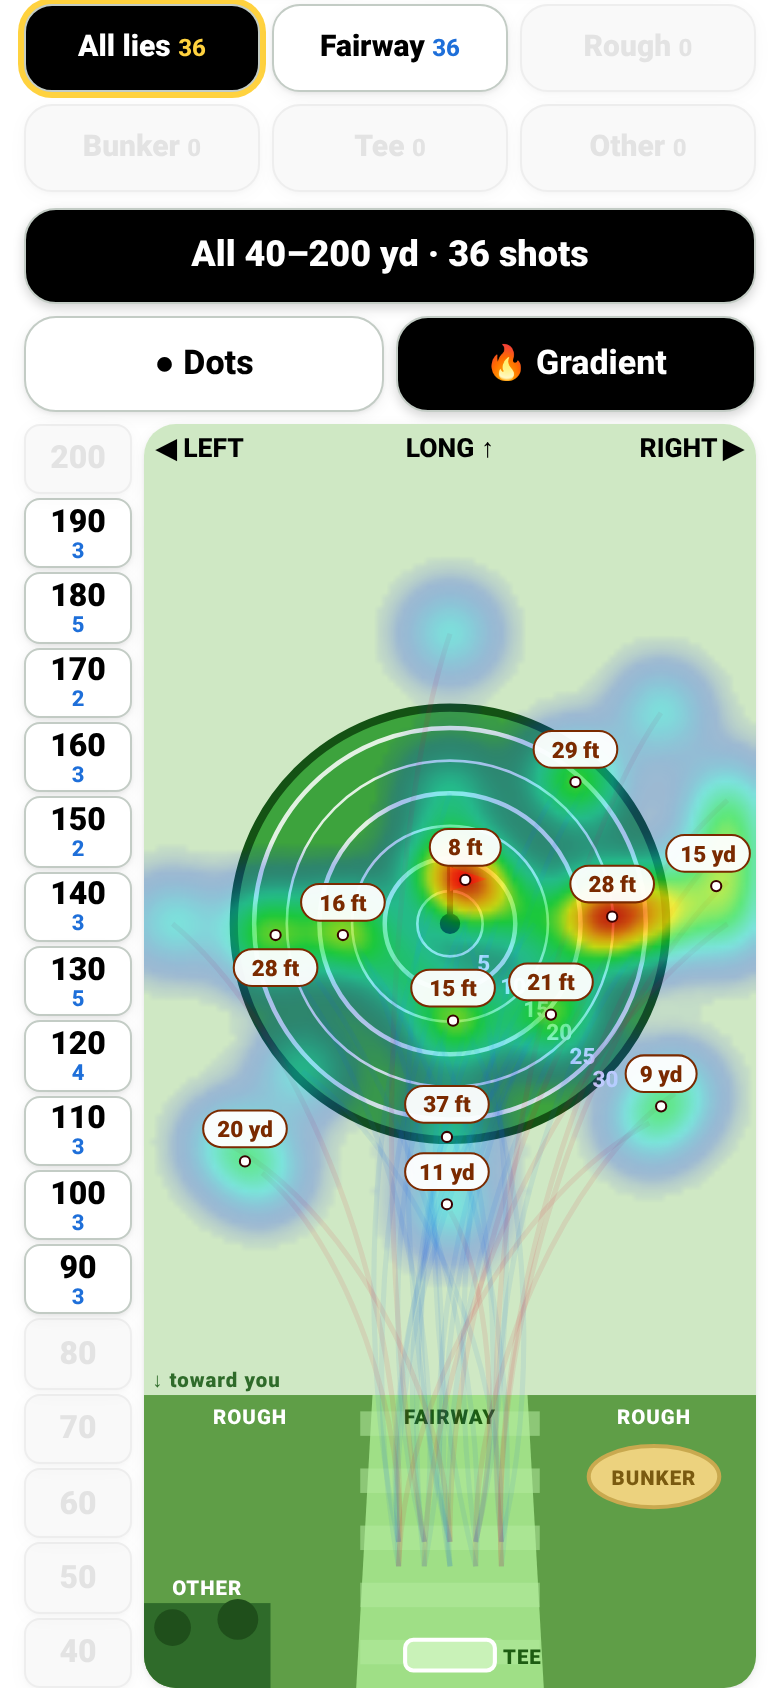
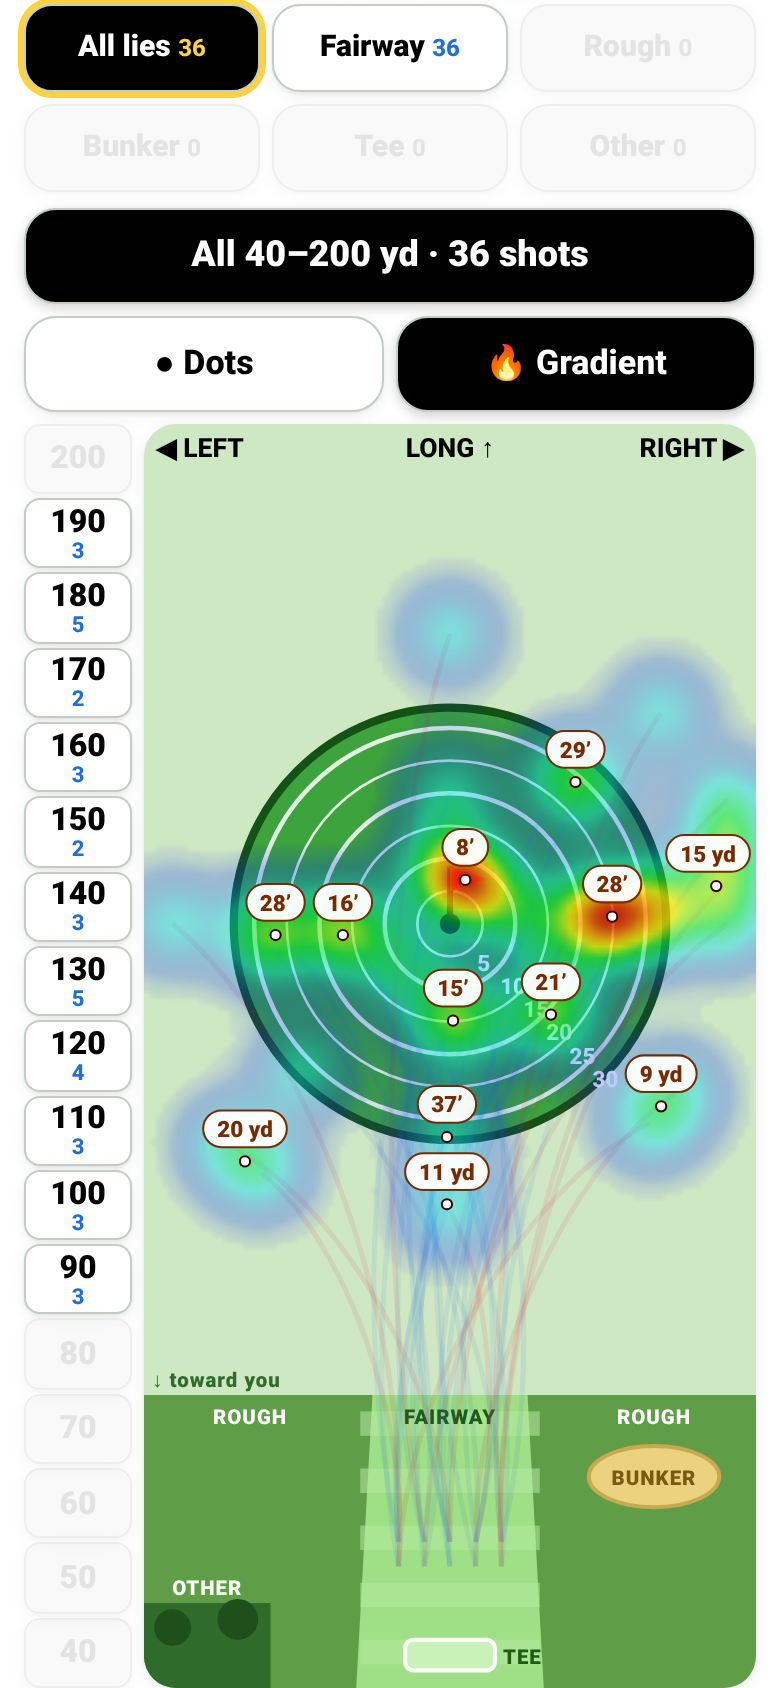
v68: hot-spot labels use 17’ feet mark

diff --git a/tests/heat-focused.js b/tests/heat-focused.js
@@ -30,8 +30,9 @@ const BASE = process.env.BASE_URL || 'http://127.0.0.1:8774/', OUT = '/workspace
     if (m === 'pmiss') { await page.waitForSelector('#heattog'); }
     const gr = await page.evaluate(() => ({ img: !!document.querySelector('#mapview svg.heat #heatgrad'), hs: [...document.querySelectorAll('#mapview .hotspot text')].map(t => t.textContent), avg: !!document.querySelector('#heatavg'), sel: document.querySelector('#heattog .sel').dataset.v }));
     assert.ok(gr.img && (m === 'miss' ? gr.avg : !gr.avg) && gr.sel === 'grad', m + ' gradient by default for multi-round ' + JSON.stringify(gr));
-    assert.ok(gr.hs.length && gr.hs.every(t => (m === 'prox' ? /^\d+ (ft|yd)$/ : /^\d+ (ft|yd) · \d+ shots?$/).test(t)), m + ' hot-spot tags ' + gr.hs);
+    assert.ok(gr.hs.length && gr.hs.every(t => (m === 'prox' ? /^\d+(\u2019| yd)$/ : /^\d+(\u2019| yd) · \d+ shots?$/).test(t)), m + ' hot-spot tags ' + gr.hs);
     if (m === 'prox') { await page.locator('#mapview svg.heat').scrollIntoViewIfNeeded(); await page.screenshot({ path: OUT + 'prox-labels-dist.png' }); }
+    if (m === 'gir') { assert.ok(gr.hs.some(t => /\u2019 · /.test(t)) && !gr.hs.some(t => / ft/.test(t)), 'feet mark ' + gr.hs); await page.locator('#mapview svg.heat').scrollIntoViewIfNeeded(); await page.screenshot({ path: OUT + 'labels-feet-mark.png' }); }
     await page.locator('#heattog').scrollIntoViewIfNeeded(); await page.screenshot({ path: OUT + 'heatmap-gradient-' + m + '.png' });
     if (m === 'putt') { // putt starts: no ⊕, summary = mean distance of the putts shown
       const ps = await page.evaluate(() => { const rs = JSON.parse(localStorage.getItem('golfsg.rounds.v1')); const d = []; // raw entered first-putt distances

diff --git a/app.js b/app.js
@@ -1302,7 +1302,7 @@
     return heatFmt(g) + ' · ' + n; }
   function heatFmt(list) { // average distance; yards when every shot is off the green in yd, else feet
     var yd = list.every(function (p) { return p.u === 'yd'; }), v = list.reduce(function (a, p) { return a + (yd ? p.d : p.u === 'yd' ? p.d * 3 : p.d); }, 0) / list.length;
-    return Math.round(v) + (yd ? ' yd' : ' ft');
+    return Math.round(v) + (yd ? ' yd' : '\u2019'); // feet as 17’ (right single quote renders in every font)
   }
   function applyHeat(root) {
     var mv = root || document.getElementById('mapview'); if (!mv || !HEAT_MAPS[view.map]) return;

diff --git a/sw.js b/sw.js
@@ -1,5 +1,5 @@
 // Offline support: cache the whole app on install, serve cache-first.
-const CACHE = 'golf-sg-v67';
+const CACHE = 'golf-sg-v68';
 const ASSETS = ['./', './index.html', './styles.css', './sg.js', './app.js', './config.js', './onedrive.js', './vendor/msal-browser.min.js', './vendor/jspdf.umd.min.js',
   './manifest.webmanifest', './icons/apple-touch-icon.png', './icons/icon-192.png',
   './icons/icon-512.png', './icons/icon-512-maskable.png'];
